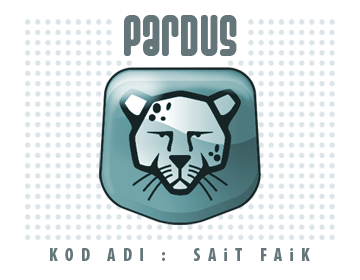
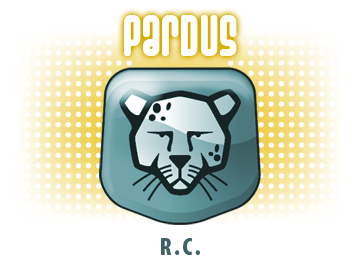
new pics...

diff --git a/yali/yali/constants.py b/yali/yali/constants.py
@@ -50,7 +50,7 @@ class Constants:
 
 consts = Constants()
 
-consts.pardus_version = "Pardus 2007 Beta2"
+consts.pardus_version = "Pardus 2007 RC"
 
 consts.log_file = "/tmp/install.log"
 
